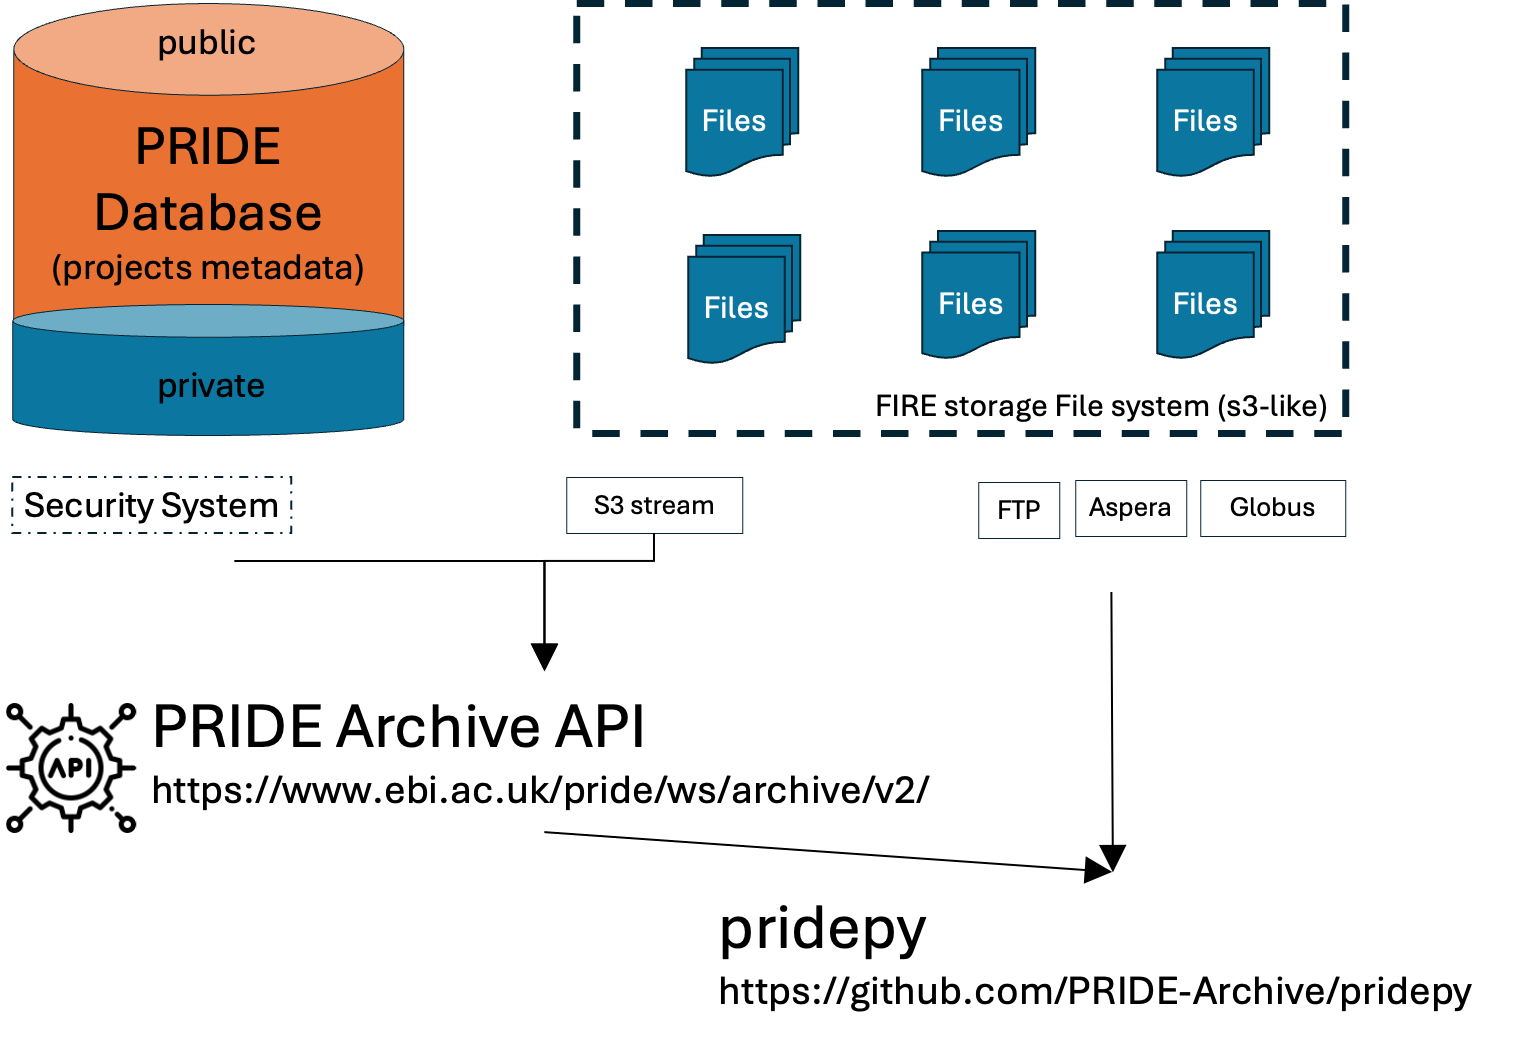
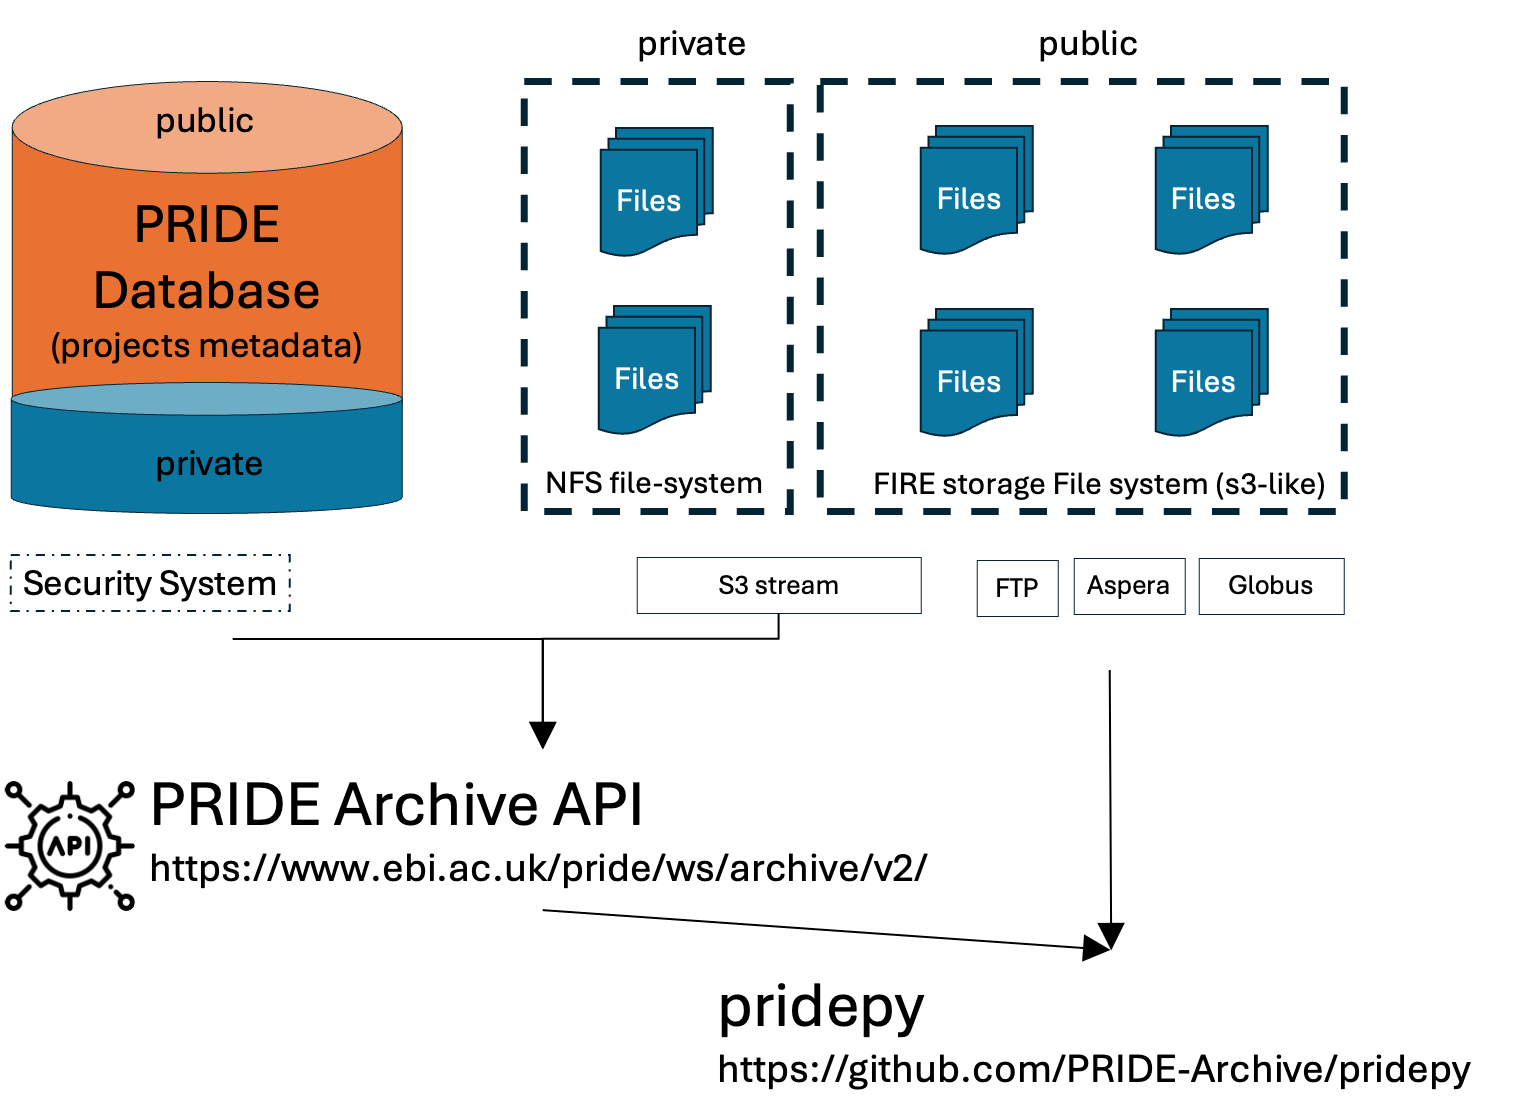
downloading private datasets.

diff --git a/pridepy/files/files.py b/pridepy/files/files.py
@@ -12,9 +12,11 @@ from typing import Dict
 
 import boto3
 import botocore
+import requests
 from botocore.config import Config
 from tqdm import tqdm
 
+from pridepy.authentication.authentication import Authentication
 from pridepy.util.api_handling import Util
 
 
@@ -43,6 +45,7 @@ class Files:
     """
 
     API_BASE_URL = "https://www.ebi.ac.uk/pride/ws/archive/v2/"
+    API_PRIVATE_URL = "https://www.ebi.ac.uk/pride/private/ws/archive/v2"
     S3_URL = "https://hh.fire.sdo.ebi.ac.uk"
     S3_BUCKET = "pride-public"
     logging.basicConfig(
@@ -351,7 +354,14 @@ class Files:
         return path_fragment
 
     def download_file_by_name(
-        self, accession, file_name, output_folder, protocol, aspera_maximum_bandwidth
+        self,
+        accession,
+        file_name,
+        output_folder,
+        protocol,
+        username,
+        password,
+        aspera_maximum_bandwidth,
     ):
         """
         Download files from url
@@ -359,18 +369,52 @@ class Files:
         :param file_name: file name to download
         :param output_folder: folder to download the files
         :param protocol: ftp, aspera, globus
+        :param username: Username for private datasets
+        :param password: Password for private datasets
         :param aspera_maximum_bandwidth: Aspera maximum bandwidth
         """
 
         if not (os.path.isdir(output_folder)):
             os.mkdir(output_folder)
-        response = self.get_file_from_api(accession, file_name)
-        self.download_files(
-            response,
-            output_folder,
-            protocol,
-            aspera_maximum_bandwidth=aspera_maximum_bandwidth,
+
+        ## Check type of project
+        public_project = False
+        project_status = Util.get_api_call(
+            self.API_BASE_URL + "/status/{}".format(accession)
         )
+        if project_status.status_code == 200:
+            if project_status.text is not "PRIVATE":
+                public_project = True
+
+        if username is None or password is None and public_project:
+            logging.info("Downloading file from public dataset {}".format(accession))
+            response = self.get_file_from_api(accession, file_name)
+            self.download_files(
+                response,
+                output_folder,
+                protocol,
+                aspera_maximum_bandwidth=aspera_maximum_bandwidth,
+            )
+        elif not public_project and (username is not None and password is not None):
+            logging.info("Downloading file from private dataset {}".format(accession))
+            self.download_private_file_name(
+                accession=accession,
+                file_name=file_name,
+                output_folder=output_folder,
+                username=username,
+                password=username,
+            )
+        else:
+            logging.error(
+                "For a private dataset {} you must provide a username and password".format(
+                    accession
+                )
+            )
+            raise Exception(
+                "For a private dataset {} you must provide a username and password".format(
+                    accession
+                )
+            )
 
     def get_file_from_api(self, accession, file_name):
         """
@@ -392,6 +436,75 @@ class Files:
             return response.json()
         except Exception as e:
             raise Exception("File not found" + str(e))
+
+    def download_private_file_name(
+        self, accession, file_name, output_folder, username, password
+    ):
+        """
+        Get the information for a given private file to be downloaded from the api.
+        :param accession: Project accession
+        :param file_name: The file name to be downloaded
+        :param username: Username with access to the dataset
+        :param password: Password for user with access to the dataset
+        """
+
+        auth = Authentication()
+        auth_token = auth.get_token(username, password)
+        validate_token = auth.validate_token(auth_token)
+        print(validate_token)
+        url = self.API_PRIVATE_URL + "/projects/{}/files?search={}".format(
+            accession, file_name
+        )
+        content = requests.get(
+            url, headers={"Authorization": "Bearer {}".format(auth_token)}
+        )
+        if content.ok and content.status_code == 200:
+            json_file = content.json()
+            if (
+                "_embedded" in json_file
+                and "files" in json_file["_embedded"]
+                and len(json_file["_embedded"]["files"]) == 1
+            ):
+                download_url = json_file["_embedded"]["files"][0]["_links"]["download"][
+                    "href"
+                ]
+                total_size = json_file["_embedded"]["files"][0]["fileSizeBytes"]
+                logging.info(download_url)
+
+                # Create a clean filename to save the downloaded file
+                new_file_path = os.path.join(output_folder, f"{file_name}")
+
+                # Initialize progress bar
+                progress = Progress(total_size, new_file_path)
+
+                # Download the file with progress bar
+                urllib.request.urlretrieve(
+                    download_url,
+                    new_file_path,
+                    reporthook=lambda blocks, block_size, total_size: progress(
+                        block_size
+                    ),
+                )
+
+                progress.close()
+                logging.info(f"Successfully downloaded {new_file_path}")
+
+            else:
+                logging.info(
+                    "File name {} found more than once for the given project {}".format(
+                        file_name, accession
+                    )
+                )
+
+            print(json_file)
+
+        else:
+            logging.info(
+                f"File name {file_name} now found in the project {accession}, or user don't have access"
+            )
+            raise Exception(
+                f"File name {file_name} now found in the project {accession}, or user don't have access"
+            )
 
     @staticmethod
     def get_ascp_binary():

diff --git a/pridepy/pridepy.py b/pridepy/pridepy.py
@@ -13,7 +13,10 @@ def main():
     pass
 
 
-@main.command()
+@main.command(
+    "download-all-public-raw-files",
+    help="Download all public raw files from a given PRIDE public project",
+)
 @click.option("-a", "--accession", required=True, help="PRIDE project accession")
 @click.option(
     "-p",
@@ -33,7 +36,7 @@ def main():
     help="Aspera maximum bandwidth (e.g 50M, 100M, 200M), depending on the user's network bandwidth, default is 100M",
     default="100M",
 )
-def download_all_raw_files(
+def download_all_public_raw_files(
     accession, protocol, output_folder, aspera_maximum_bandwidth: str = "50M"
 ):
     """
@@ -41,10 +44,9 @@ def download_all_raw_files(
     """
 
     raw_files = Files()
-
     logging.info("accession: " + accession)
-
     logging.info(f"Data will be downloaded from {protocol}")
+
     if protocol == "aspera":
         logging.info(f"Aspera maximum bandwidth: {aspera_maximum_bandwidth}")
 
@@ -55,7 +57,11 @@ def download_all_raw_files(
         aspera_maximum_bandwidth=aspera_maximum_bandwidth,
     )
 
-@main.command()
+
+@main.command(
+    "download-file-by-name",
+    help="Download a single file from a given PRIDE project (public or private)",
+)
 @click.option("-a", "--accession", required=True, help="PRIDE project accession")
 @click.option(
     "-p",
@@ -71,13 +77,25 @@ def download_all_raw_files(
     help="output folder to download or copy files",
 )
 @click.option(
+    "--username", required=False, help="PRIDE login username for private files"
+)
+@click.option(
+    "--password", required=False, help="PRIDE login password for private files"
+)
+@click.option(
     "--aspera_maximum_bandwidth",
     required=False,
     help="Aspera maximum bandwidth (e.g 50M, 100M, 200M), depending on the user's network bandwidth, default is 100M",
     default="100M",
 )
-def download_files_by_name(
-    accession, protocol, file_name, output_folder, aspera_maximum_bandwidth: str = "50M"
+def download_file_by_name(
+    accession,
+    protocol,
+    file_name,
+    output_folder,
+    username: str = None,
+    password: str = None,
+    aspera_maximum_bandwidth: str = "50M",
 ):
     """
     This script download single file from servers or copy from the file system
@@ -86,7 +104,6 @@ def download_files_by_name(
     raw_files = Files()
 
     logging.info("accession: " + accession)
-
     logging.info(f"Data will be downloaded from {protocol}")
     if protocol == "aspera":
         logging.info(f"Aspera maximum bandwidth: {aspera_maximum_bandwidth}")
@@ -96,6 +113,8 @@ def download_files_by_name(
         file_name,
         output_folder,
         protocol,
+        username,
+        password,
         aspera_maximum_bandwidth=aspera_maximum_bandwidth,
     )
 

diff --git a/pridepy/tests/test_authentication.py b/pridepy/tests/test_authentication.py
@@ -3,6 +3,7 @@ import unittest
 import pytest
 
 from pridepy.authentication import authentication
+from pridepy.files.files import Files
 
 
 class TestAuthentication(unittest.TestCase):
@@ -10,7 +11,7 @@ class TestAuthentication(unittest.TestCase):
     A test class to test Authentication related methods.
     """
 
-    @pytest.mark.skip(reason="Needs credentials")
+    # @pytest.mark.skip(reason="Needs credentials")
     def test_get_token(self):
         """
         Test get API AAP token functionality
@@ -35,6 +36,21 @@ class TestAuthentication(unittest.TestCase):
         api_token = auth.get_token(username, password)
         print(api_token)
         self.assertTrue(auth.validate_token(api_token), "Token is invalid or expired!")
+
+    def test_get_dataset_private(self):
+        username = "yperez@ebi.ac.uk"
+        password = "pass.root"
+        dataset = "PXD044389"
+
+        file_handler = Files()
+        files = file_handler.download_private_file_name(
+            accession=dataset,
+            username=username,
+            password=password,
+            output_folder="./",
+            file_name="g00739_Prot_36_06.raw",
+        )
+        print(files)
 
 
 if __name__ == "__main__":

diff --git a/pridepy/authentication/authentication.py b/pridepy/authentication/authentication.py
@@ -10,7 +10,7 @@ class Authentication:
     This class holds authentication related methods including issuing and validating access token.
     """
 
-    base_url = "https://www.ebi.ac.uk/pride/private/ws/archive/v2/"
+    base_url = "https://www.ebi.ac.uk/pride/private/ws/archive/v2"
 
     def __init__(self):
         pass
@@ -24,7 +24,7 @@ class Authentication:
         """
 
         # get token to access the api
-        url = self.base_url + "getAAPToken"
+        url = self.base_url + "/login"
         headers = {"Content-type": "application/json", "Accept": "text/plain"}
         credentials = (
             '{"Credentials":{"username":"'
@@ -49,7 +49,7 @@ class Authentication:
         :param token: Token
         :return: Return True if the token is valid and not expired: Otherwise returns False
         """
-        url = self.base_url + "token-validation"
+        url = self.base_url + "/token-validation"
         headers = {"Authorization": "Bearer " + token}
 
         response = requests.post(url, headers=headers)

diff --git a/pridepy/project/project.py b/pridepy/project/project.py
@@ -179,3 +179,16 @@ class Project:
         headers = {"Accept": "application/JSON"}
         response = Util.get_api_call(request_url, headers)
         return response.json()
+
+    def get_project_file_names(
+        self, accession: str, user: str = None, password: str = None
+    ) -> list:
+
+        if user and password:
+            files = self.get_private_files_by_accession(accession, user, password)
+        else:
+            files = self.get_files_by_accession(
+                accession, "", 100, 0, "ASC", "fileName"
+            )["list"]
+
+        return [file["fileName"] for file in files]

diff --git a/paper/paper.md b/paper/paper.md
@@ -64,6 +64,8 @@ $ pridepy download-all-raw-files \
 
 This makes the client suitable for handling large-scale proteomics data in automated workflows, particularly in environments requiring bulk downloads of proteomics datasets.
 
+More importantly, 
+
 # Discussion and Future Directions
 
 `pridepy` successfully simplifies access to the PRIDE Archive data, but future development could focus on improving the handling of large downloads by implementing parallel downloads. Additionally, we will expand the user documentation and examples could help broaden its use within the scientific community; and at the same time produce a group of benchmarks to evaluate the performance of the client in different scenarios. We plat to continue extending the library to support more features of the PRIDE Archive API, such as dataset metadata streaming, and submission of new datasets to the PRIDE Archive.

diff --git a/README.md b/README.md
@@ -38,7 +38,7 @@ Warning: Raw files are generally large in size, so it may take some time to down
    - **globus**: globus protocol
 
 ```python
-$ pridepy download-all-raw-files -a PXD012353 -o /Users/yourname/Downloads/foldername/ -p aspera
+$ pridepy download-all-public-raw-files -a PXD012353 -o /Users/yourname/Downloads/foldername/ -p aspera
 ```
 
 Download single file by name
